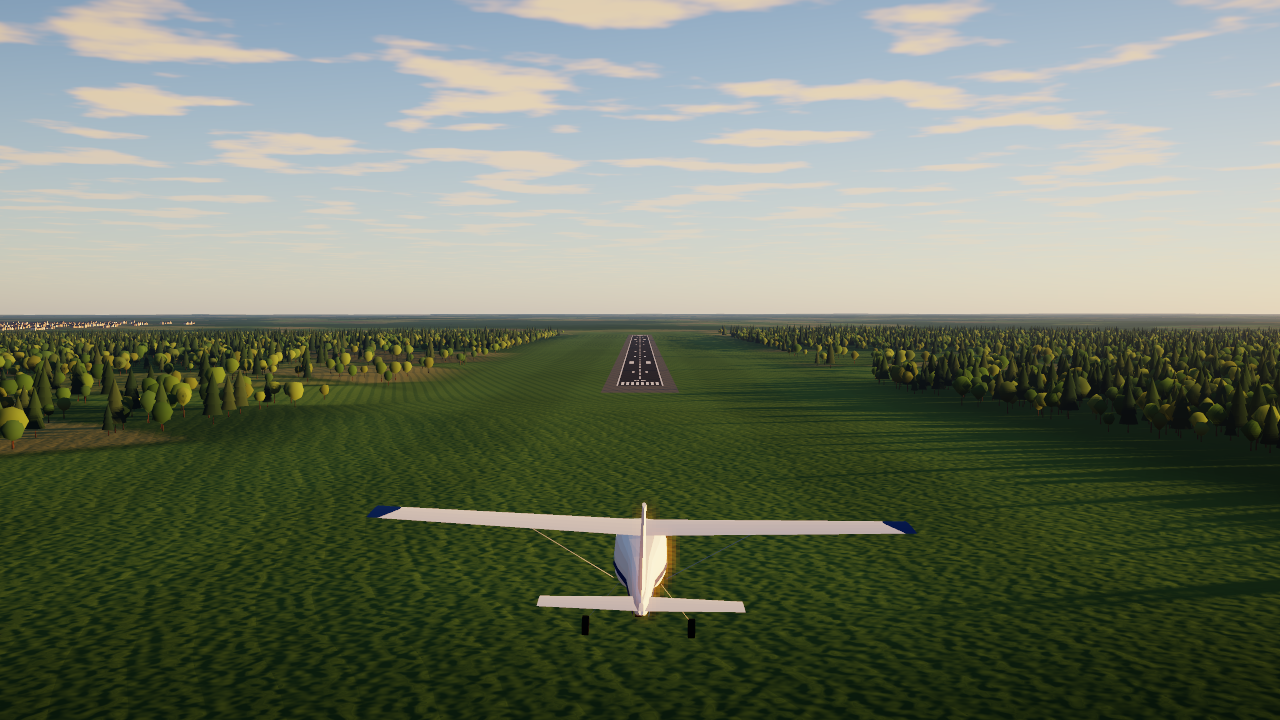
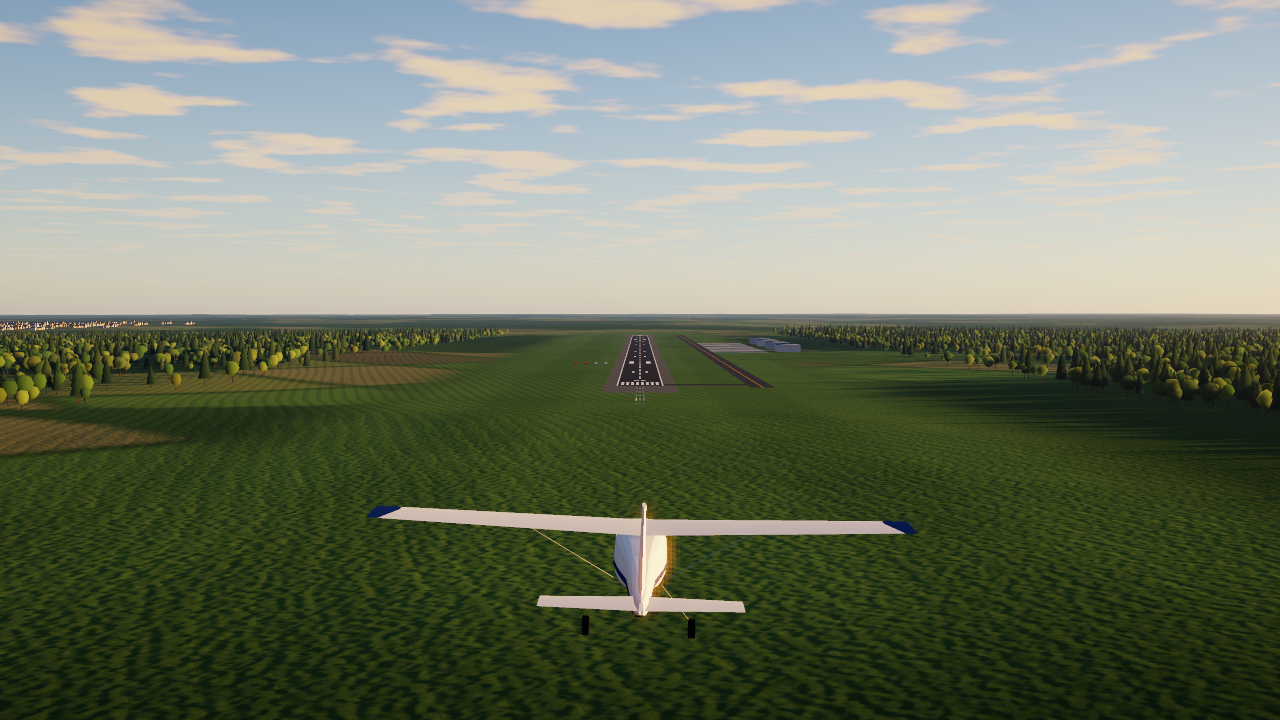
[P1.3] Airport kit: taxiway, apron, hangars, approach lights, PAPI
Claude-Session: https://claude.ai/code/session_01LuDJ4arcj2AiLQbMi9mk9u

diff --git a/Packages/SkyforgeKit/Sources/SFPreview/SceneBuilder.swift b/Packages/SkyforgeKit/Sources/SFPreview/SceneBuilder.swift
@@ -392,6 +392,56 @@ public struct SceneBuilder {
         stats["runwayQuads", default: 0] += 1
     }
 
+    /// Airport furniture around a runway: parallel taxiway with stubs, apron, hangars, approach
+    /// lighting and a PAPI (art review: a lone runway rectangle read as "no sense of place").
+    public mutating func addAirportKit(_ spec: RunwaySpec, elevation: Double) {
+        let dir = SIMD2(sin(spec.heading), cos(spec.heading)), side = SIMD2(dir.y, -dir.x)   // side = right of the runway
+        func p(_ along: Double, _ across: Double, _ dz: Double) -> SIMD3<Double> {
+            let q = spec.threshold + dir * along + side * across
+            return SIMD3(q.x, q.y, elevation + dz)
+        }
+        func slab(_ a0: Double, _ a1: Double, _ c0: Double, _ c1: Double, _ dz: Double, _ col: SIMD3<Float>) {
+            soup.addQuad(p(a0, c0, dz), p(a1, c0, dz), p(a1, c1, dz), p(a0, c1, dz), colour: col, material: .road)
+        }
+        let L = spec.length, hw = spec.width / 2
+        let asphalt = srgb(70, 70, 72), concrete = srgb(150, 148, 140), yellow = srgb(196, 160, 40)
+        // Parallel taxiway (15 m) at 75 m, centre line, and three stubs to the runway edge.
+        slab(-20, L + 20, 67.5, 82.5, 0.08, asphalt)
+        slab(-20, L + 20, 74.7, 75.3, 0.11, yellow)
+        for a in [10.0, L / 2, L - 10] {
+            slab(a - 7.5, a + 7.5, hw, 67.5, 0.07, asphalt)
+            slab(a - 0.3, a + 0.3, hw + 2, 75, 0.10, yellow)
+        }
+        // Apron and hangars.
+        let a0 = L * 0.38, a1 = L * 0.64
+        slab(a0, a1, 82.5, 145, 0.06, concrete)
+        for k in 0..<4 {
+            let ac = a0 + 40 + Double(k) * ((a1 - a0 - 80) / 3)
+            let wall = k % 2 == 0 ? srgb(176, 180, 184) : srgb(150, 158, 170)
+            addBox({ x, y, z in p(ac + x, 170 + y, z) }, hx: 16, hy: 13, z0: -0.5, z1: 8, colour: wall)
+            // Low-pitched dark roof.
+            soup.addQuad(p(ac - 16, 157, 8), p(ac + 16, 157, 8), p(ac + 16, 170, 10), p(ac - 16, 170, 10), colour: srgb(70, 74, 80))
+            soup.addQuad(p(ac - 16, 170, 10), p(ac + 16, 170, 10), p(ac + 16, 183, 8), p(ac - 16, 183, 8), colour: srgb(70, 74, 80))
+        }
+        // Approach lighting: centre-line bars every 30 m to 420 m, crossbar at 300 m.
+        let light = srgb(240, 236, 220)
+        for k in 1...14 {
+            let a = -30.0 * Double(k)
+            for o in [-2.0, 0, 2.0] {
+                addBox({ x, y, z in p(a + x, o + y, z) }, hx: 0.35, hy: 0.35, z0: 0, z1: 0.8 + Double(k) * 0.05, colour: light)
+            }
+        }
+        for o in stride(from: -15.0, through: 15.0, by: 3) where abs(o) > 3 {
+            addBox({ x, y, z in p(-300 + x, o + y, z) }, hx: 0.35, hy: 0.35, z0: 0, z1: 1.4, colour: light)
+        }
+        // PAPI: four units left of the runway at 300 m.
+        for k in 0..<4 {
+            addBox({ x, y, z in p(300 + x, -(hw + 15 + Double(k) * 9) + y, z) }, hx: 0.8, hy: 1.2, z0: 0, z1: 0.9,
+                   colour: k < 2 ? srgb(232, 232, 228) : srgb(210, 40, 36))
+        }
+        stats["airportKit", default: 0] += 1
+    }
+
     // MARK: Aircraft
 
     /// Adds the procedural aircraft at a world position (ENU) with heading (rad from north, clockwise), pitch and roll.

diff --git a/Packages/SkyforgeKit/Sources/SFPreview/Scenes.swift b/Packages/SkyforgeKit/Sources/SFPreview/Scenes.swift
@@ -53,7 +53,7 @@ public enum PreviewScenes {
         let rwyDir = SIMD2(sin(rwyHeading), cos(rwyHeading))
         let rwyElevation = recipe.height(rwyThreshold.x + rwyDir.x * 750, rwyThreshold.y + rwyDir.y * 750)
         if scene == .airportFinal {
-            recipe.flattenZones = [(centre: rwyThreshold + rwyDir * 750, halfLength: 850, halfWidth: 90, heading: rwyHeading, elevation: rwyElevation)]
+            recipe.flattenZones = [(centre: rwyThreshold + rwyDir * 750, halfLength: 850, halfWidth: 200, heading: rwyHeading, elevation: rwyElevation)]
         }
         let gen = WorldGenerator(terrain: recipe, latitude: 47, season: .summer)   // art review: autumn crowns clashed with green grass
         func cam(_ x: Double, _ y: Double, agl: Double, lookX: Double, lookY: Double, lookAGL: Double, fov: Double = 70) -> PreviewCamera {
@@ -141,7 +141,7 @@ public enum PreviewScenes {
                 }
             }
         }
-        if let rwy = s.runway { b.addRunway(rwy, elevation: s.runwayElevation) }
+        if let rwy = s.runway { b.addRunway(rwy, elevation: s.runwayElevation); b.addAirportKit(rwy, elevation: s.runwayElevation) }
         if let rig = s.aircraft {
             let fwdH = normalize(SIMD3(cam.forward.x, cam.forward.y, 0))
             let pos = cam.position + fwdH * rig.ahead - SIMD3(0, 0, rig.below) + SIMD3(fwdH.y, -fwdH.x, 0) * rig.right

diff --git a/Packages/SkyforgeKit/Sources/SFQuickFlight/QuickFlight.swift b/Packages/SkyforgeKit/Sources/SFQuickFlight/QuickFlight.swift
@@ -105,6 +105,7 @@ public struct QuickFlightWorld: FlightWorld {
             }
         }
         b.addRunway(runway, elevation: runwayElevation)
+        b.addAirportKit(runway, elevation: runwayElevation)
         return b.soup
     }
 

diff --git a/docs/VISUAL_LOG.md b/docs/VISUAL_LOG.md
@@ -117,3 +117,4 @@ Open defects (next passes): near-field ground is flat colour (needs detail textu
 - Remaining top fixes: smooth land-cover/water masks (stair-stepped river and field borders), per-instance tree colour variety, shoreline (beach, foam, shallow gradient, smooth cliff), slope/altitude mountain material, impostors for distant trees and towns; then an airport kit for (j), cloud multiple scattering and sun bloom, house variety.
 - Applied now: eight summer broadleaf and four conifer greens (crowns no longer one lime tone); rock from 24° and snow only below ~30° slope (peaks show grey rock faces); field parcels warped by low-frequency noise with soft hedgerow margins. Previews re-rendered.
 - Coast: near-shore water grid coloured by depth (foam at the waterline, turquoise shallows, deep blue beyond 28 m); visible as a lighter near-shore band in (e). The cliff is still faceted.
+- Airport kit (Quick Flight and j): parallel taxiway with stubs and centre lines, concrete apron, four hangars, approach light bars with a 300 m crossbar, PAPI; airport flatten zone widened to ±200 m so the kit sits on level, tree-free ground.

diff --git a/docs/VERIFICATION_LOG.md b/docs/VERIFICATION_LOG.md
@@ -76,3 +76,4 @@ Every gate run, CI run and manual verification. Newest at the bottom.
 - 2026-11-08T12:01:28Z gate fast on Linux x86_64: PASS (HEAD 4ce0195)
 - 2026-11-08T12:10:10Z gate fast on Linux x86_64: PASS (HEAD 1fa781b)
 - 2026-11-08T12:13:21Z gate fast on Linux x86_64: PASS (HEAD 2fd78fd)
+- 2026-11-08T12:18:11Z gate fast on Linux x86_64: PASS (HEAD f78185b)
